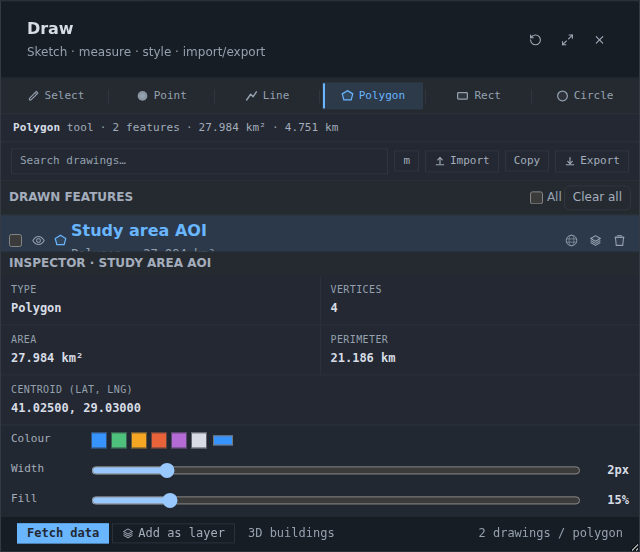
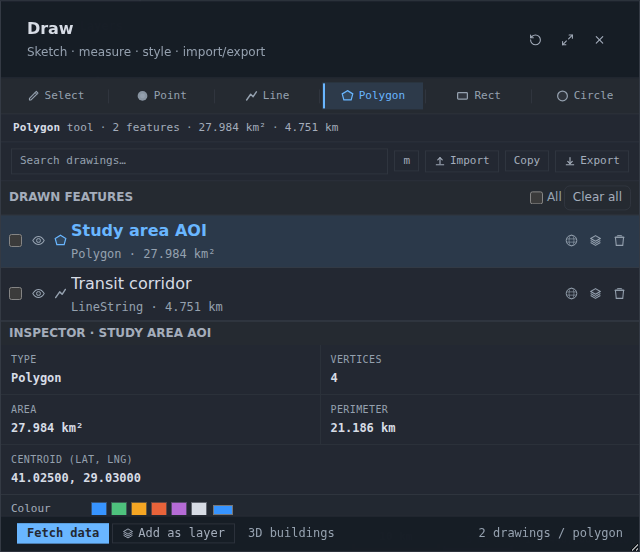
fix(map): make draw modal non-blocking & stable
The draw modal used MapDialogShell's full-screen blocking backdrop, so
clicking the map closed the modal and prevented drawing. Add a
nonBlocking mode (pointer-events:none transparent backdrop, no
close-on-outside-click, no Tab trap, aria-modal=false) and opt the draw
modal in — the map stays interactive and the modal stays open.

Move the feature Inspector inside the list scroll region so measurements
and the style editor are never clipped; keep a sensible min panel size.

https://claude.ai/code/session_012254GRDeRCNkLptWcAjfPV

diff --git a/src/centerpanel/components/map/__tests__/map-drawing-tools.test.ts b/src/centerpanel/components/map/__tests__/map-drawing-tools.test.ts
@@ -1056,6 +1056,40 @@ describe("p06+ — pro modal body renders the multi-functional toolkit", () => {
 });
 
 /* ================================================================== */
+/*  6f. Stability — MapDialogShell non-blocking (map stays interactive) */
+/* ================================================================== */
+
+describe("MapDialogShell — nonBlocking mode keeps the map interactive", () => {
+  it("renders a non-modal dialog with a click-through, undimmed backdrop", async () => {
+    const { MapDialogShell } = await import("../MapDialogShell");
+    const html = renderToStaticMarkup(
+      React.createElement(
+        MapDialogShell,
+        { ariaLabel: "Drawing tools modal", title: "Draw", nonBlocking: true, onClose: () => undefined },
+        React.createElement("div", null, "body"),
+      ),
+    );
+    // Non-modal so screen readers + click-outside behave like a tool palette.
+    expect(html).toContain('aria-modal="false"');
+    // Backdrop must not capture clicks (so map drawing works) nor dim the map.
+    expect(html).toContain("pointer-events:none");
+    expect(html).toContain("background:transparent");
+  });
+
+  it("stays a blocking modal (aria-modal true) by default", async () => {
+    const { MapDialogShell } = await import("../MapDialogShell");
+    const html = renderToStaticMarkup(
+      React.createElement(
+        MapDialogShell,
+        { ariaLabel: "Dialog", title: "Dialog", onClose: () => undefined },
+        React.createElement("div", null, "body"),
+      ),
+    );
+    expect(html).toContain('aria-modal="true"');
+  });
+});
+
+/* ================================================================== */
 /*  7. Barrel exports — New drawing types                              */
 /* ================================================================== */
 

diff --git a/src/centerpanel/components/map/MapDialogShell.tsx b/src/centerpanel/components/map/MapDialogShell.tsx
@@ -32,6 +32,13 @@ export interface MapDialogShellProps {
   maximizable?: boolean;
   /** When set, drag position + resized size persist durably across sessions. */
   memoryKey?: string;
+  /**
+   * Non-modal mode: the backdrop does not capture pointer events (the map
+   * stays interactive for drawing/measuring), clicking "outside" does NOT
+   * close the dialog, and Tab focus is not trapped. The dialog still opens
+   * focused and closes on Escape / the close button.
+   */
+  nonBlocking?: boolean;
   onClose: () => void;
   children: React.ReactNode;
 }
@@ -159,6 +166,7 @@ export function MapDialogShell({
   footerStyle,
   maximizable = true,
   memoryKey,
+  nonBlocking = false,
   onClose,
   children,
 }: MapDialogShellProps): React.ReactElement {
@@ -229,7 +237,7 @@ export function MapDialogShell({
       return;
     }
 
-    if (event.key !== "Tab") {
+    if (event.key !== "Tab" || nonBlocking) {
       return;
     }
 
@@ -285,15 +293,25 @@ export function MapDialogShell({
 
   return (
     <div
-      style={{ ...overlayBaseStyle, ...overlayStyle }}
-      onClick={(event) => {
-        if (event.target === event.currentTarget) onClose();
+      style={{
+        ...overlayBaseStyle,
+        ...overlayStyle,
+        // Non-modal: let the map underneath stay interactive (draw/pan/zoom)
+        // and drop the dimming backdrop so the canvas reads clearly.
+        ...(nonBlocking ? { pointerEvents: "none", background: "transparent" } : {}),
       }}
+      onClick={
+        nonBlocking
+          ? undefined
+          : (event) => {
+              if (event.target === event.currentTarget) onClose();
+            }
+      }
     >
       <div
         ref={panelRef}
         role="dialog"
-        aria-modal="true"
+        aria-modal={nonBlocking ? false : true}
         aria-label={ariaLabel}
         tabIndex={-1}
         data-draggable-map-panel="true"
@@ -311,6 +329,8 @@ export function MapDialogShell({
           ...panelStyle,
           ...maximizedPanelStyle,
           resize: maximized ? "none" : panelStyle?.resize ?? panelBaseStyle.resize,
+          // Re-enable interaction on the panel when the overlay is click-through.
+          ...(nonBlocking ? { pointerEvents: "auto" } : {}),
         }}
       >
         <div {...dragHandleProps} style={{ ...headerStyle, ...(maximized ? { cursor: "default" } : dragHandleStyle) }}>

diff --git a/src/centerpanel/components/MapDrawingManager.tsx b/src/centerpanel/components/MapDrawingManager.tsx
@@ -845,10 +845,10 @@ const DrawModalBody: React.FC<DrawModalBodyProps> = ({
             })}
           </div>
         )}
-      </div>
 
-      {/* Inspector — measurements + style editor for the selected feature */}
-      {selectedFeature && selectedMeasure ? (
+        {/* Inspector — measurements + style editor for the selected feature.
+            Lives inside the scroll region so it never gets clipped. */}
+        {selectedFeature && selectedMeasure ? (
         <div className={drawModalStyles.inspector} data-testid="map-draw-modal-inspector">
           <GisSectionHeader title={`Inspector · ${selectedFeature.properties.label}`} compact separator={false} />
           <div className={drawModalStyles.metricGrid}>
@@ -945,7 +945,8 @@ const DrawModalBody: React.FC<DrawModalBodyProps> = ({
             </div>
           </div>
         </div>
-      ) : null}
+        ) : null}
+      </div>
     </div>
   );
 };

diff --git a/src/centerpanel/components/map/controllers/MapExplorerModalRuntimeCore.tsx b/src/centerpanel/components/map/controllers/MapExplorerModalRuntimeCore.tsx
@@ -6155,6 +6155,7 @@ export const MapExplorerModal: React.FC<MapExplorerModalProps> = ({ open, onClos
             maxWidth="calc(100% - 2rem)"
             maxHeight="calc(100% - 4rem)"
             memoryKey="map-draw-modal"
+            nonBlocking
             panelStyle={drawModalPanelStyle}
             bodyStyle={drawModalBodyStyle}
             overlayStyle={drawModalOverlayStyle}

diff --git a/MAP_EXPLORER_DOCK_REDESIGN_2026-06-15/evidence/p06-pro-toolkit.md b/MAP_EXPLORER_DOCK_REDESIGN_2026-06-15/evidence/p06-pro-toolkit.md
@@ -45,6 +45,22 @@ geospatial sketch workbench**. All four requested capability groups shipped.
   handlers unchanged (p07/p08 depend). `MapDialogShell` still owns focus/Escape.
 - `DrawnFeature.properties` gained an optional `hidden?: boolean`.
 
+## Stability fixes (follow-up)
+- **Modal closing by itself / can't draw:** the draw modal used `MapDialogShell`'s
+  full-screen blocking backdrop, so any click on the map hit the backdrop and
+  closed the modal (and the map never received draw clicks). Added a
+  `nonBlocking` mode to `MapDialogShell`: the overlay is `pointer-events:none`
+  with a transparent (undimmed) backdrop, outside-clicks no longer close, Tab is
+  not trapped, and `aria-modal="false"`. The draw modal opts in → the map stays
+  fully interactive and the modal stays put. (Default dialogs unchanged.)
+- **"Half-baked" info when clicking on the map:** the Inspector now lives inside
+  the same scroll region as the feature list, so measurements + style editor are
+  never clipped; min panel size (24×22rem) keeps content legible. Verified: both
+  feature rows + full Inspector (Type/Vertices/Area/Perimeter/Centroid) + style
+  editor render cleanly and on-design.
+- E2E proof: clicking the map canvas twice keeps the modal visible (was the
+  regression), and the Inspector shows complete Area/Perimeter/Centroid.
+
 ## Verify (all green)
 - `typecheck` PASS · `lint:errors` PASS (clean).
 - `map-drawing-tools.test.ts` **85 passed** (added geodesic measurement,

diff --git a/MAP_EXPLORER_DOCK_REDESIGN_2026-06-15/LEDGER.md b/MAP_EXPLORER_DOCK_REDESIGN_2026-06-15/LEDGER.md
@@ -108,6 +108,13 @@ Status values: `pending` · `in_progress` · `done` · `blocked`
 - Gates: typecheck PASS, lint:errors PASS, `map-drawing-tools` **85**, map+utils suite **931**, `test:analytics` **1131**, `build` PASS, `perf:budgets` PASS.
 - Screenshot: `evidence/p06-draw-pro.png`. Merged feature branch → `master` (triggers `pages.yml` deploy).
 
+### 2026-06-16 — p06+ STABILITY — non-blocking modal + clean inspector ✅
+- Owner report: draw modal "closes by itself", map-click info looked "half-baked", needs to be consistent/flawless. Root cause: `MapDialogShell` rendered a full-screen blocking backdrop → clicking the map closed the modal AND blocked draw clicks.
+- Fix: added `nonBlocking` prop to `MapDialogShell` (overlay `pointer-events:none` + transparent backdrop, no close-on-outside-click, no Tab trap, `aria-modal=false`); the draw modal opts in. Map stays interactive; modal stays put.
+- Layout: moved the Inspector inside the feature-list scroll region so measurements + style editor are never clipped; panel min 24×22rem.
+- Gates: typecheck PASS, lint PASS, `map-drawing-tools` **87** (added MapDialogShell nonBlocking unit tests), map+utils **933**, `test:analytics` **1131**, `build` PASS, `perf:budgets` PASS. E2E (temp, deleted): map clicks keep modal open + Inspector complete. Screenshot refreshed: `evidence/p06-draw-pro.png`.
+- Merged → `master` (triggers `pages.yml` deploy).
+
 <!-- Append new sessions below. Template:
 ### YYYY-MM-DD — <phase/track> — <short title>
 - Did: ...